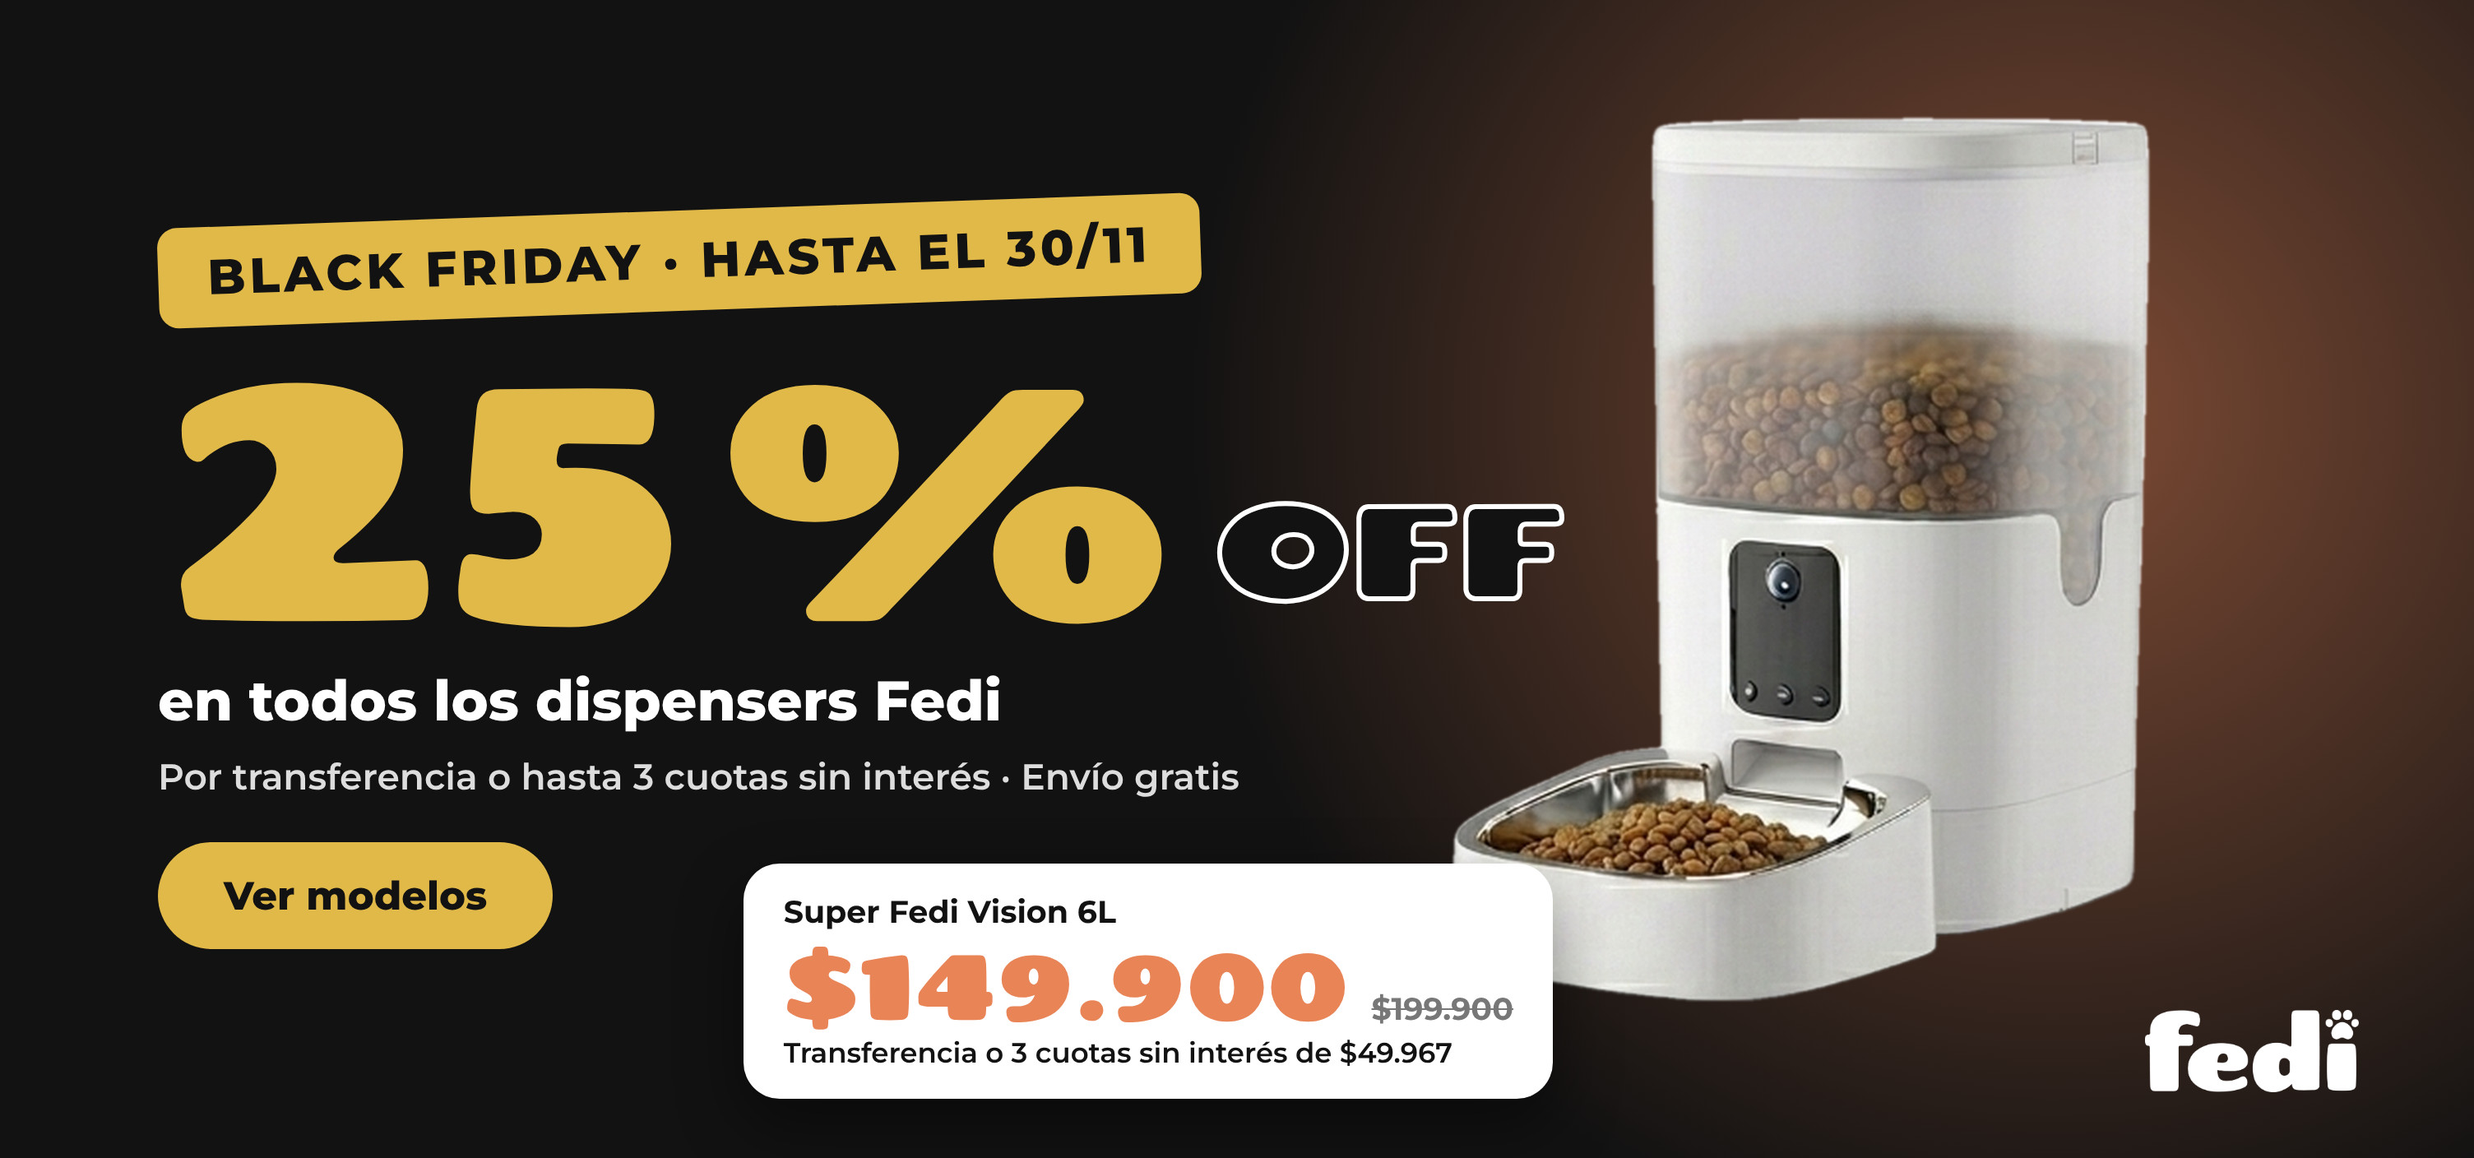
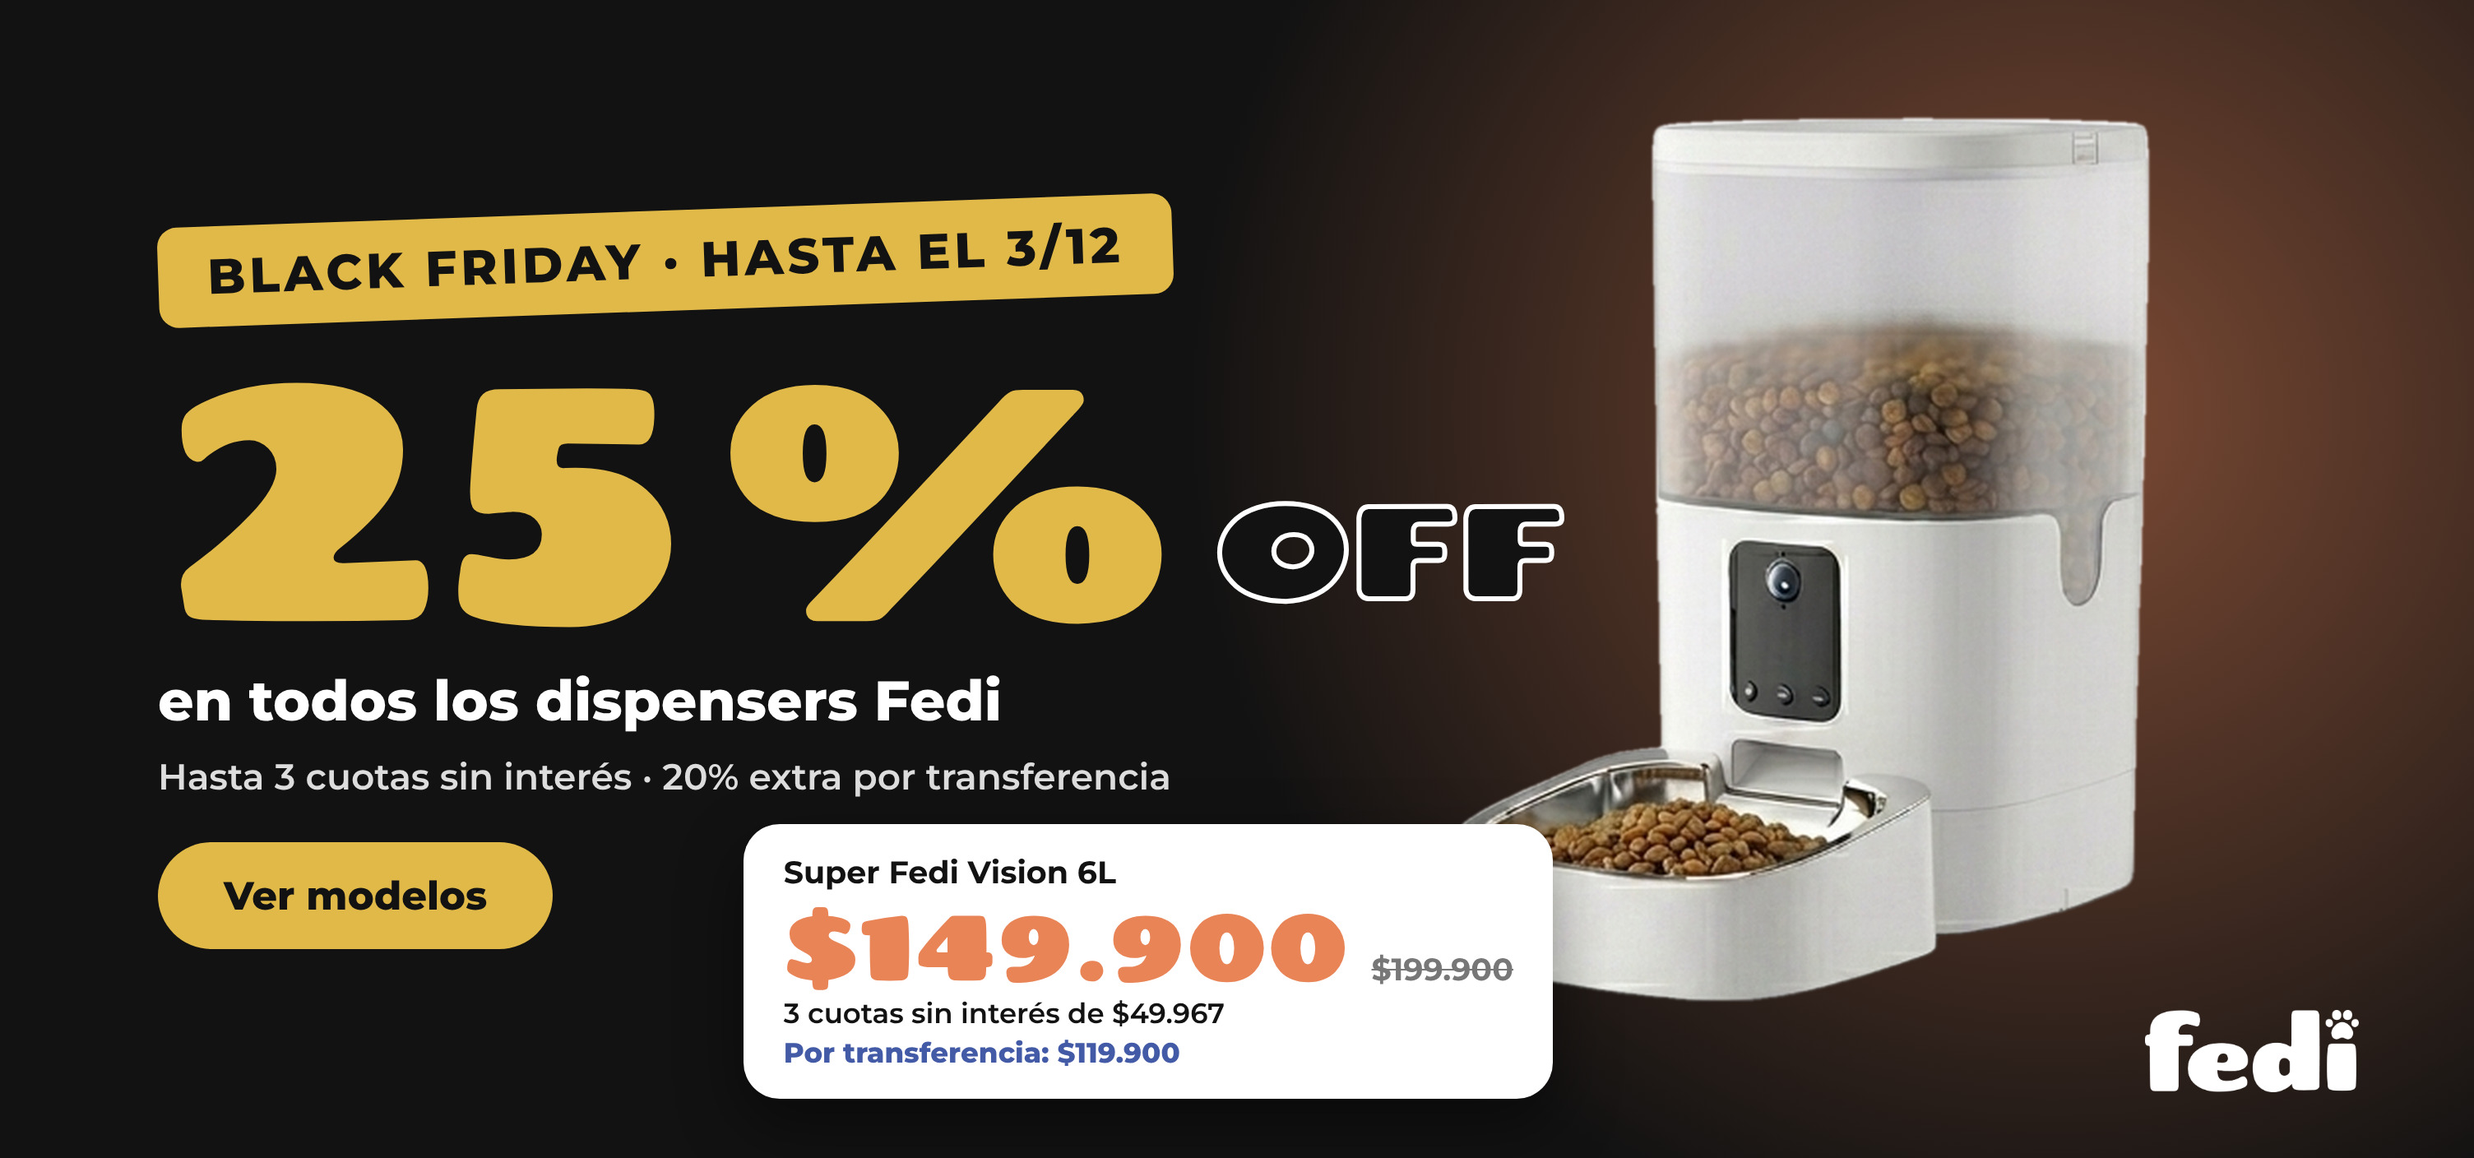
Black Friday hasta el 3/12: 25% OFF en todo + 20% extra por transferencia
Precio por transferencia = precio BF menos 20% (62.400 / 104.900 / 114.900 /
119.900). Banner negro actualizado; banners de Navidad y marca desde el 4/12.

Claude-Session: https://claude.ai/code/session_014qUiXLVEF6vqGgEhxx477v

Changed region(s): [[0.0625, 0.6562, 0.625, 0.9375], [0.4062, 0.1562, 0.5, 0.25]]

diff --git a/index.html b/index.html
@@ -10,7 +10,7 @@
     <!-- SEO Meta Tags -->
     <title>FediPet - Dispensador Automático de Alimento para Mascotas | Alimentación Inteligente</title>
     <meta name="description"
-        content="FediPet: Dispensadores automáticos de alimento con cámara HD, control WiFi y app móvil. Alimentá a tu mascota desde cualquier lugar. Black Friday: 25% OFF, modelos desde $78.000. Envíos a todo el país.">
+        content="FediPet: Dispensadores automáticos de alimento con cámara HD, control WiFi y app móvil. Alimentá a tu mascota desde cualquier lugar. Black Friday: 25% OFF y 20% extra por transferencia, modelos desde $62.400. Envíos a todo el país.">
     <meta name="keywords"
         content="dispensador automático mascotas, comedero inteligente perros, comedero automático gatos, FediPet, alimentador mascotas wifi, cámara mascota, comedero programable, dispensador alimento perros, comedero inteligente">
     <meta name="author" content="FediPet">
@@ -852,7 +852,7 @@
     <!-- Promo Ticker Start -->
     <div class="promo-ticker" aria-label="Beneficios de compra">
         <div class="promo-ticker-track">
-            <span>🖤 <strong>BLACK FRIDAY 25% OFF</strong> en todos los medios de pago</span>
+            <span>🖤 <strong>BLACK FRIDAY 25% OFF</strong> + <strong>20% extra</strong> por transferencia</span>
             <span class="tick-sep">✦</span>
             <span>🚚 <strong>Envío GRATIS</strong> a todo el País</span>
             <span class="tick-sep">✦</span>
@@ -860,7 +860,7 @@
             <span class="tick-sep">✦</span>
             <span>💳 <strong>3 cuotas</strong> sin interés</span>
             <span class="tick-sep">✦</span>
-            <span>🖤 <strong>BLACK FRIDAY 25% OFF</strong> en todos los medios de pago</span>
+            <span>🖤 <strong>BLACK FRIDAY 25% OFF</strong> + <strong>20% extra</strong> por transferencia</span>
             <span class="tick-sep">✦</span>
             <span>🚚 <strong>Envío GRATIS</strong> a todo el País</span>
             <span class="tick-sep">✦</span>
@@ -868,7 +868,7 @@
             <span class="tick-sep">✦</span>
             <span>💳 <strong>3 cuotas</strong> sin interés</span>
             <span class="tick-sep">✦</span>
-            <span>🖤 <strong>BLACK FRIDAY 25% OFF</strong> en todos los medios de pago</span>
+            <span>🖤 <strong>BLACK FRIDAY 25% OFF</strong> + <strong>20% extra</strong> por transferencia</span>
             <span class="tick-sep">✦</span>
             <span>🚚 <strong>Envío GRATIS</strong> a todo el País</span>
             <span class="tick-sep">✦</span>
@@ -888,17 +888,17 @@
             <div class="carousel-inner">
 
                 <!-- Slides con fecha: data-from / data-until en hora de Argentina (inclusive) -->
-                <div class="carousel-item active" data-until="2026-11-30">
-                    <a href="#pricing" class="hero-slide-link" aria-label="Black Friday: 25% OFF en todos los modelos, hasta el 30/11 - Ver modelos">
+                <div class="carousel-item active" data-until="2026-12-03">
+                    <a href="#pricing" class="hero-slide-link" aria-label="Black Friday: 25% OFF en todos los modelos y 20% extra por transferencia, hasta el 3/12 - Ver modelos">
                         <picture>
                             <source media="(max-width: 767px)" type="image/webp" srcset="assets/images/promo/hero-bfk-mobile@2x.webp">
                             <source media="(max-width: 767px)" srcset="assets/images/promo/hero-bfk-mobile@2x.jpg">
                             <source type="image/webp" srcset="assets/images/promo/hero-bfk-desktop@2x.webp">
-                            <img src="assets/images/promo/hero-bfk-desktop@2x.jpg" alt="Black Friday: 25% OFF en todos los modelos, hasta el 30/11" width="3008" height="1408">
+                            <img src="assets/images/promo/hero-bfk-desktop@2x.jpg" alt="Black Friday: 25% OFF en todos los modelos y 20% extra por transferencia, hasta el 3/12" width="3008" height="1408">
                         </picture>
                     </a>
                 </div>
-                <div class="carousel-item" data-from="2026-12-01" data-until="2026-12-25">
+                <div class="carousel-item" data-from="2026-12-04" data-until="2026-12-25">
                     <a href="#pricing" class="hero-slide-link" aria-label="Regalá Fedi esta Navidad: 20% OFF pagando por transferencia - Ver modelos">
                         <picture>
                             <source media="(max-width: 767px)" type="image/webp" srcset="assets/images/promo/hero-navidad-mobile@2x.webp">
@@ -908,7 +908,7 @@
                         </picture>
                     </a>
                 </div>
-                <div class="carousel-item" data-from="2026-12-01">
+                <div class="carousel-item" data-from="2026-12-04">
                     <a href="#pricing" class="hero-slide-link" aria-label="Fedi: alimentalo estés donde estés. 20% OFF pagando por transferencia - Ver modelos">
                         <picture>
                             <source media="(max-width: 767px)" type="image/webp" srcset="assets/images/promo/hero-marca-mobile@2x.webp">
@@ -1560,7 +1560,7 @@
                                             <p class="new-price">$78.000 <span class="old-price">$104.100</span></p>
                                         </div>
                                         <p class="cuotas-note">3 cuotas sin interés de $26.000</p>
-                                        <p class="transfer-price"><span class="tp-badge">25% OFF</span> <strong>Black Friday</strong> mismo precio por transferencia</p>
+                                        <p class="transfer-price"><span class="tp-badge">+20% OFF</span> <strong>$62.400</strong> por transferencia</p>
                                     </div>
 
                                     <h4 class="title">
@@ -1569,8 +1569,8 @@
                                     <p class="text">Sin Cámara · 4 Litros · Económico</p>
                                     <div class="buy-buttons">
                                         <a href="https://mpago.la/24T6uJi" target="_blank" rel="noopener" class="btn-cuotas">Comprar en 3 cuotas</a>
-                                        <a href="https://wa.me/5491150039795?text=Hola%21%20Quiero%20comprar%20el%20Fedi%20Smart%20Mini%204L%20pagando%20por%20transferencia%20%28%2478.000%29." target="_blank" rel="noopener" class="btn-transfer"
-                                            data-fedi-id="fedi-smart-mini-4l" data-fedi-name="Fedi Smart Mini 4L" data-fedi-value="78000">Pagar por transferencia</a>
+                                        <a href="https://wa.me/5491150039795?text=Hola%21%20Quiero%20comprar%20el%20Fedi%20Smart%20Mini%204L%20pagando%20por%20transferencia%20%28%2462.400%29." target="_blank" rel="noopener" class="btn-transfer"
+                                            data-fedi-id="fedi-smart-mini-4l" data-fedi-name="Fedi Smart Mini 4L" data-fedi-value="62400">Pagar por transferencia</a>
                                     </div>
                                 </div>
                             </div>
@@ -1591,7 +1591,7 @@
                                             <p class="new-price">$131.100 <span class="old-price">$174.900</span></p>
                                         </div>
                                         <p class="cuotas-note">3 cuotas sin interés de $43.700</p>
-                                        <p class="transfer-price"><span class="tp-badge">25% OFF</span> <strong>Black Friday</strong> mismo precio por transferencia</p>
+                                        <p class="transfer-price"><span class="tp-badge">+20% OFF</span> <strong>$104.900</strong> por transferencia</p>
                                     </div>
 
                                     <h4 class="title">
@@ -1600,8 +1600,8 @@
                                     <p class="text">Cámara HD 720P · 3 Litros<br>Ideal Gatos</p>
                                     <div class="buy-buttons">
                                         <a href="https://mpago.la/1uMtTgG" target="_blank" rel="noopener" class="btn-cuotas">Comprar en 3 cuotas</a>
-                                        <a href="https://wa.me/5491150039795?text=Hola%21%20Quiero%20comprar%20el%20Fedi%20Cam%203L%20pagando%20por%20transferencia%20%28%24131.100%29." target="_blank" rel="noopener" class="btn-transfer"
-                                            data-fedi-id="fedi-cam-3l" data-fedi-name="Fedi Cam 3L" data-fedi-value="131100">Pagar por transferencia</a>
+                                        <a href="https://wa.me/5491150039795?text=Hola%21%20Quiero%20comprar%20el%20Fedi%20Cam%203L%20pagando%20por%20transferencia%20%28%24104.900%29." target="_blank" rel="noopener" class="btn-transfer"
+                                            data-fedi-id="fedi-cam-3l" data-fedi-name="Fedi Cam 3L" data-fedi-value="104900">Pagar por transferencia</a>
                                     </div>
                                 </div>
                             </div>
@@ -1622,7 +1622,7 @@
                                             <p class="new-price">$143.700 <span class="old-price">$191.600</span></p>
                                         </div>
                                         <p class="cuotas-note">3 cuotas sin interés de $47.900</p>
-                                        <p class="transfer-price"><span class="tp-badge">25% OFF</span> <strong>Black Friday</strong> mismo precio por transferencia</p>
+                                        <p class="transfer-price"><span class="tp-badge">+20% OFF</span> <strong>$114.900</strong> por transferencia</p>
                                     </div>
 
                                     <h4 class="title">
@@ -1631,8 +1631,8 @@
                                     <p class="text">Cámara HD 720P · 4 Litros · Compacto</p>
                                     <div class="buy-buttons">
                                         <a href="https://mpago.la/2JfFYvK" target="_blank" rel="noopener" class="btn-cuotas">Comprar en 3 cuotas</a>
-                                        <a href="https://wa.me/5491150039795?text=Hola%21%20Quiero%20comprar%20el%20Fedi%20Cam%20Mini%204L%20pagando%20por%20transferencia%20%28%24143.700%29." target="_blank" rel="noopener" class="btn-transfer"
-                                            data-fedi-id="fedi-cam-mini-4l" data-fedi-name="Fedi Cam Mini 4L" data-fedi-value="143700">Pagar por transferencia</a>
+                                        <a href="https://wa.me/5491150039795?text=Hola%21%20Quiero%20comprar%20el%20Fedi%20Cam%20Mini%204L%20pagando%20por%20transferencia%20%28%24114.900%29." target="_blank" rel="noopener" class="btn-transfer"
+                                            data-fedi-id="fedi-cam-mini-4l" data-fedi-name="Fedi Cam Mini 4L" data-fedi-value="114900">Pagar por transferencia</a>
                                     </div>
                                 </div>
                             </div>
@@ -1653,7 +1653,7 @@
                                             <p class="new-price">$149.900 <span class="old-price">$199.900</span></p>
                                         </div>
                                         <p class="cuotas-note">3 cuotas sin interés de $49.967</p>
-                                        <p class="transfer-price"><span class="tp-badge">25% OFF</span> <strong>Black Friday</strong> mismo precio por transferencia</p>
+                                        <p class="transfer-price"><span class="tp-badge">+20% OFF</span> <strong>$119.900</strong> por transferencia</p>
                                     </div>
 
                                     <h4 class="title">
@@ -1662,8 +1662,8 @@
                                     <p class="text">Cámara 2K HD · 6 Litros · Premium</p>
                                     <div class="buy-buttons">
                                         <a href="https://mpago.la/2P1U62h" target="_blank" rel="noopener" class="btn-cuotas">Comprar en 3 cuotas</a>
-                                        <a href="https://wa.me/5491150039795?text=Hola%21%20Quiero%20comprar%20el%20Super%20Fedi%20Vision%206L%20pagando%20por%20transferencia%20%28%24149.900%29." target="_blank" rel="noopener" class="btn-transfer"
-                                            data-fedi-id="super-fedi-vision-6l" data-fedi-name="Super Fedi Vision 6L" data-fedi-value="149900">Pagar por transferencia</a>
+                                        <a href="https://wa.me/5491150039795?text=Hola%21%20Quiero%20comprar%20el%20Super%20Fedi%20Vision%206L%20pagando%20por%20transferencia%20%28%24119.900%29." target="_blank" rel="noopener" class="btn-transfer"
+                                            data-fedi-id="super-fedi-vision-6l" data-fedi-name="Super Fedi Vision 6L" data-fedi-value="119900">Pagar por transferencia</a>
                                     </div>
                                 </div>
                             </div>
@@ -1810,25 +1810,25 @@
                                     <div class="table-price-wrapper">
                                         <span class="table-new-price">$78.000</span><span class="old-price-table">$104.100</span>
                                     </div>
-                                    <div class="table-transfer-price">Black Friday 25% OFF</div>
+                                    <div class="table-transfer-price">$62.400 por transferencia</div>
                                 </th>
                                 <th class="price text-center">
                                     <div class="table-price-wrapper">
                                         <span class="table-new-price">$131.100</span><span class="old-price-table">$174.900</span>
                                     </div>
-                                    <div class="table-transfer-price">Black Friday 25% OFF</div>
+                                    <div class="table-transfer-price">$104.900 por transferencia</div>
                                 </th>
                                 <th class="price text-center">
                                     <div class="table-price-wrapper">
                                         <span class="table-new-price">$143.700</span><span class="old-price-table">$191.600</span>
                                     </div>
-                                    <div class="table-transfer-price">Black Friday 25% OFF</div>
+                                    <div class="table-transfer-price">$114.900 por transferencia</div>
                                 </th>
                                 <th class="price text-center">
                                     <div class="table-price-wrapper">
                                         <span class="table-new-price">$149.900</span><span class="old-price-table">$199.900</span>
                                     </div>
-                                    <div class="table-transfer-price">Black Friday 25% OFF</div>
+                                    <div class="table-transfer-price">$119.900 por transferencia</div>
                                 </th>
                             </tr>
                         </thead>
@@ -2152,7 +2152,7 @@
                                         Tenés dos formas. Con Mercado Pago: hacé click en Comprar en el modelo que
                                         quieras y pagá en hasta 3 cuotas sin interés; al terminar completás la dirección
                                         de envío. Por transferencia: tocá "Pagar por transferencia" y te pasamos los
-                                        datos por WhatsApp; hasta el 30/11 tenés 25% OFF de Black Friday con cualquier medio de pago. En los dos casos el envío es
+                                        datos por WhatsApp; hasta el 3/12 tenés 25% OFF de Black Friday con cualquier medio de pago, y pagando por transferencia sumás 20% extra. En los dos casos el envío es
                                         GRATIS a todo el país.
                                     </p>
                                 </div>
@@ -2312,7 +2312,7 @@
             <div class="tf-head">
                 <h3 id="tfTitle">Pagá por transferencia</h3>
                 <p id="tfModel">Fedi</p>
-                <div class="tf-price"><span id="tfPrice"></span><small>25% OFF Black Friday</small></div>
+                <div class="tf-price"><span id="tfPrice"></span><small>25% + 20% OFF</small></div>
                 <button type="button" class="tf-close" data-tf-close aria-label="Cerrar">&times;</button>
             </div>
             <div class="tf-body">
